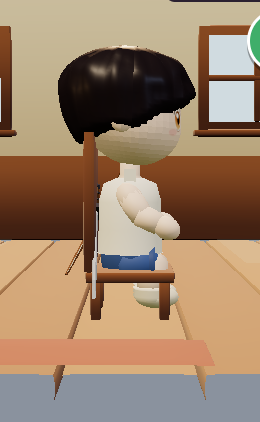
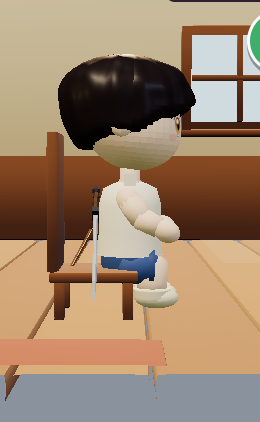
fix(newgame): sit on the front edge of the chair (legs clear it, body clear of the back)
Claude-Session: https://claude.ai/code/session_01GPWeNez232vT9ersFNk7wt

diff --git a/newgame/src/main.js b/newgame/src/main.js
@@ -4824,7 +4824,7 @@ function hinOk(x, z) { if (HIN.okFn) { const o = HIN.g.position, lx = x - o.x, l
 function hinOk0(x, z) { const o = HIN.g.position, lx = x - o.x, lz = z - o.z, hw = HIN.w / 2 - .28, hd = HIN.d / 2; if (Math.abs(lx) > hw || lz < -hd + .3) return false; if (lz > hd - .32 && Math.abs(lx) > .55) return false; if (lz > hd + .1) return false; return !HIN.sols.some(s => Math.abs(lx - s.x) < s.hw + .22 && Math.abs(lz - s.z) < s.hd + .22) }
 /* v4.77 🪑 sit on a chair / stool in the house (designer) · A = sit (facing the way the chair faces) · walk = stand up · the chair stops being solid while you sit on it */
 function hinSeat(lx, lz) { if (PL.seat || carryN()) return null; const it = HOUSE_S().items.find(i => (i.k === 'chair' || i.k === 'stool') && Math.hypot(lx - i.x, lz - i.z) < .75); if (!it) return null;
-  return { k: 'sitc', go: () => { const o = HIN.g.position, si = HIN.sols.findIndex(s2 => Math.abs(s2.x - it.x) < .01 && Math.abs(s2.z - it.z) < .01), sol = si >= 0 ? HIN.sols.splice(si, 1)[0] : null; me().set(o.x + it.x, HIN.Y, o.z + it.z); walkT = null; if (it.k === 'chair') PL.yaw = PL.yawT = -it.r * Math.PI / 2; PL.seat = { sol, x: it.x, z: it.z }; SIT = false; sfx('tap') } } }
+  return { k: 'sitc', go: () => { const o = HIN.g.position, si = HIN.sols.findIndex(s2 => Math.abs(s2.x - it.x) < .01 && Math.abs(s2.z - it.z) < .01), sol = si >= 0 ? HIN.sols.splice(si, 1)[0] : null; const yw = it.k === 'chair' ? -it.r * Math.PI / 2 : PL.yaw, fw = it.k === 'chair' ? D.SEAT_EDGE : 0; me().set(o.x + it.x + Math.sin(yw) * fw, HIN.Y, o.z + it.z + Math.cos(yw) * fw); walkT = null; PL.yaw = PL.yawT = yw;   /* v4.77 (designer) sit on the front edge: the legs clear the chair · the body never sinks into its back */ PL.seat = { sol, x: it.x, z: it.z }; SIT = false; sfx('tap') } } }
 function hinSeatTick(lx, lz) { const P2 = PL.seatOff; if (P2 && Math.hypot(lx - P2.x, lz - P2.z) > .8) { if (P2.sol && HIN.on) HIN.sols.push(P2.sol); PL.seatOff = null } if (PL.seat && !PL.seat.left && false) { } }
 function hinCtx() { if (HIN.ed) return { k: 'none', go: () => { } }; { const o0 = HIN.g.position, q0 = me(); hinSeatTick(q0.x - o0.x, q0.z - o0.z) } if (HIN.farm) return fInCtx(me()); if (HIN.shop) return sInCtx(me()); if (HIN.castle) return cCtx(me()); const o = HIN.g.position, q = me(), lx = q.x - o.x, lz = q.z - o.z; { const st2 = hinSeat(lx, lz); if (st2) return st2 } if (Math.hypot(lx - HIN.bed.x, lz - HIN.bed.z) < 1.9) return { k: 'bedin', go: () => openBuilt(HIN.b.id, true) }; if (HIN.stove && Math.hypot(lx - HIN.stove.x, lz - HIN.stove.z) < 1.3) return { k: 'cookin', go: () => openPot('home') }; if (lz > HIN.d / 2 - 1.1 && Math.abs(lx) < 1) return { k: 'doorout', go: hinExit }; return { k: 'none', go: () => { } } }
 /* ================= v4.56 🪨 small stones: A = pick one up (held like an ingredient · one at a time · a little slower) · A = put it down on the white circle · B = put it down in front

diff --git a/newgame/src/data.js b/newgame/src/data.js
@@ -1058,7 +1058,7 @@ export const STARTER_TOOLS = ['sickle0', 'axe0', 'pick0', 'hoe0'];
 export const AIMLOCK = { range: 34, snap: 9, breakPx: 2.5 };
 /* v3.48 🧗 climbing: CLIFF = steeper than this (rise / run) is a wall · CLIMB_V = how fast you go up (m/s) · CLIMB_OUT = how far off the rock you hang (m) */
 export const CLIFF = 2.4, CLIMB_V = 1.1, CLIMB_OUT = .3;
-export const KRIG_ON = true, KRIG_SIT = 14, KRIG_SITY = .3, KRIG_CHAIRY = .02;   // KRIG_SIT: seconds standing still before sitting down
+export const KRIG_ON = true, KRIG_SIT = 14, KRIG_SITY = .3, KRIG_CHAIRY = .02, SEAT_EDGE = .17;   // KRIG_SIT: seconds standing still before sitting down
 //   // v3.49 🦴 the player moves through the standard KRIG clips (false = the old motion everywhere)
 
 /* v3.88 ⚡ the eel: 10 fish (a system quest) → its sea shrine rises · beat it → ⚡ สายฟ้าฟาด (every enemy within r m: hit + stun) */

diff --git a/newgame/docs/WORKLOG.md b/newgame/docs/WORKLOG.md
@@ -37,7 +37,7 @@
 - 🏰 ของตกแต่งเฉพาะอาณาจักร (ผู้ออกแบบขอ · ภาพ `docs/art/castles7-mock.png`): เสาห้องโถงตามธีม (`PILLAR`): นาวาลี เสาฟ้าวงเปลือกหอย ปะการัง · ซิลวาเรน ต้นไม้มีราก ใบ เถาวัลย์ · ฟรอสต์เฮล์ม เสาน้ำแข็งใส คริสตัล หินย้อยน้ำแข็ง · เดดการ์ เสาหินดำ หัวกะโหลก เปลวม่วง · อัสราห์ เสาหินทรายคาดทอง · วัลคารา เสาออบซิเดียนรอยลาวา เปลวไฟ · ของตกแต่ง (`DECO` ใหญ่ขึ้น ×1.35): ลูมิเนีย รูปปั้นอัศวิน · นาวาลี ตู้ปลา เปลือกหอย ตรีศูล · ซิลวาเรน ต้นไม้กระถาง เถาวัลย์ เห็ด · ฟรอสต์เฮล์ม คริสตัล รูปปั้นหมาป่าน้ำแข็ง กองหิมะ · เดดการ์ เตาไฟม่วง หลุมศพ ใยแมงมุม · อัสราห์ โถทอง ต้นปาล์ม รูปปั้นแมวทราย กองทราย · วัลคารา เตาไฟ ร่องลาวา หินออบซิเดียน
 - แก้ (ผู้ออกแบบเจอ: พระราชาจมไปกับบัลลังก์): `sitPose` (clay.js) งอสะโพก/เข่า วางสะโพกบนเบาะ y .98 · ใช้กับพระราชาและผู้นำ 6 อาณาจักร · Rainbow โผล่บนเบาะ
 - 🧍 ท่านั่ง (ผู้ออกแบบขอ: ผู้เล่นนั่งเก้าอี้/ขี่สัตว์ต้องเป็นท่านั่ง): คลิป `ride` (krig.js · ขาคร่อมแยกสองข้าง แขนจับไปข้างหน้า) ตอนขี่น้อง/ม้า/วาฬ (`plState`) · คลิป `chair` (นั่งเก้าอี้ ขางอ 90°) + `D.KRIG_CHAIRY` · ในบ้าน: ยืนใกล้เก้าอี้/ม้านั่ง A 🪑 = นั่ง (หันตามเก้าอี้ · `hinSeat`) เดิน = ลุก · ทดสอบ petride ride128 fight bow
-- ท่านั่งเก้าอี้ตามภาพสเก็ตช์ด้านข้างของผู้ออกแบบ: `seatPose` ตั้งข้อต่อทับคลิปทุกเฟรม (หลังตรง · ต้นขาขนานพื้น · หน้าแข้งตั้ง · มือวางบนเข่า) · เก้าอี้/ม้านั่งในบ้านเตี้ยลงให้พอดีขาตัวละคร (เบาะ .2) · `D.KRIG_CHAIRY` .02 · ภาพ `docs/art/sit-chair.png`
+- ท่านั่งเก้าอี้ตามภาพสเก็ตช์ด้านข้างของผู้ออกแบบ: `seatPose` ตั้งข้อต่อทับคลิปทุกเฟรม (หลังตรง · ต้นขาขนานพื้น · หน้าแข้งตั้ง · มือวางบนเข่า) · เก้าอี้/ม้านั่งในบ้านเตี้ยลงให้พอดีขาตัวละคร (เบาะ .2) · `D.KRIG_CHAIRY` .02 · ภาพ `docs/art/sit-chair.png` · นั่งขอบหน้าเก้าอี้ (`D.SEAT_EDGE` .17 · ผู้ออกแบบ: ขายื่นพ้นเก้าอี้ ตัวไม่ซ้อนพนัก)
 - ขึ้นเว็บ: ⏳ ระบบอนุญาตบล็อกการ push ขึ้น main รอผู้ออกแบบอนุญาต
 
 ### v4.74 — 🧥 ห้องใต้ดินลับ + ผู้คลุมผ้าปริศนา · ร้านเข้าได้ครบ (23 พ.ย. 2026)
